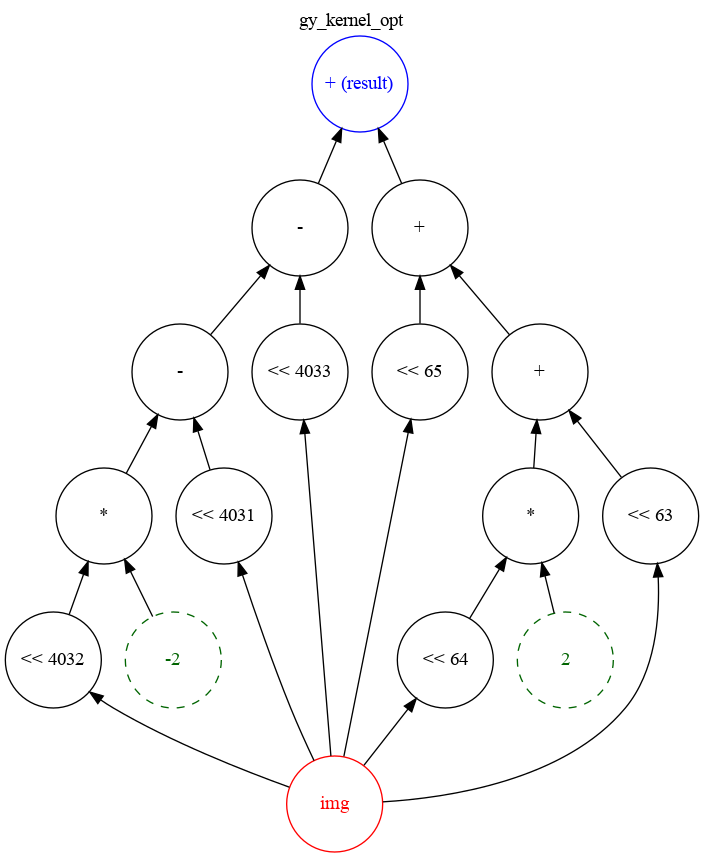
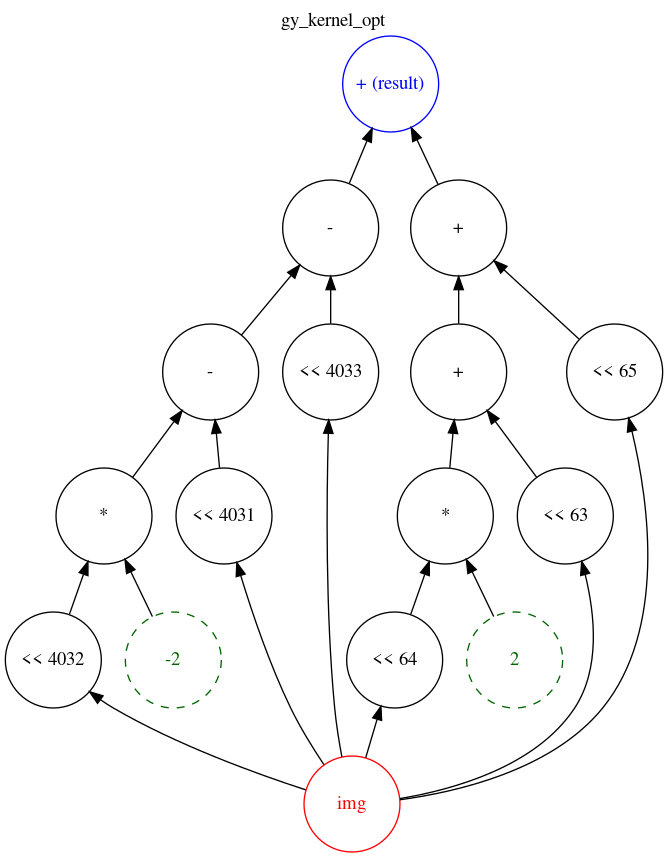
evaluate gy_kernel

diff --git a/benchmarks/gy_kernel/he/gen_he_gy_kernel_noopt.cpp b/benchmarks/gy_kernel/he/gen_he_gy_kernel_noopt.cpp
@@ -18,55 +18,55 @@ const GaloisKeys &galois_keys)
 {
 Ciphertext c1 = encrypted_inputs.at("img");
 size_t slot_count = encoder.slot_count();
-Plaintext p24;
-encoder.encode(vector<std::int64_t>(slot_count, 1), p24);
-Plaintext p27;
-encoder.encode(vector<std::int64_t>(slot_count, 2), p27);
-Plaintext p14;
-encoder.encode(vector<std::int64_t>(slot_count, 0), p14);
-Plaintext p10;
-encoder.encode(vector<std::int64_t>(slot_count, -1), p10);
+Plaintext p30;
+encoder.encode(vector<std::int64_t>(slot_count, 1), p30);
+Plaintext p25;
+encoder.encode(vector<std::int64_t>(slot_count, 1), p25);
 Plaintext p20;
 encoder.encode(vector<std::int64_t>(slot_count, 0), p20);
 Plaintext p7;
 encoder.encode(vector<std::int64_t>(slot_count, -2), p7);
-Plaintext p30;
-encoder.encode(vector<std::int64_t>(slot_count, 1), p30);
 Plaintext p17;
 encoder.encode(vector<std::int64_t>(slot_count, 0), p17);
-Plaintext p4;
-encoder.encode(vector<std::int64_t>(slot_count, -1), p4);
+Plaintext p27;
+encoder.encode(vector<std::int64_t>(slot_count, 2), p27);
+Plaintext p5;
+encoder.encode(vector<std::int64_t>(slot_count, -1), p5);
+Plaintext p10;
+encoder.encode(vector<std::int64_t>(slot_count, -1), p10);
+Plaintext p15;
+encoder.encode(vector<std::int64_t>(slot_count, 0), p15);
 Ciphertext c2;
 evaluator.rotate_rows(c1, 4032, galois_keys, c2);
-Ciphertext c5;
-evaluator.rotate_rows(c2, 4095, galois_keys, c5);
-evaluator.multiply_plain(c5, p4, c5);
+Ciphertext c9;
+evaluator.rotate_rows(c2, 4095, galois_keys, c9);
+evaluator.multiply_plain(c9, p10, c9);
 Ciphertext c37;
 evaluator.multiply_plain(c2, p7, c37);
-evaluator.add(c5, c37, c5);
+evaluator.add(c9, c37, c9);
 evaluator.rotate_rows(c2, 1, galois_keys, c2);
-evaluator.multiply_plain(c2, p10, c2);
-evaluator.add(c5, c2, c5);
+evaluator.multiply_plain(c2, p5, c2);
+evaluator.add(c9, c2, c9);
 evaluator.rotate_rows(c1, 4095, galois_keys, c2);
-evaluator.multiply_plain(c2, p14, c2);
+evaluator.multiply_plain(c2, p20, c2);
 evaluator.multiply_plain(c1, p17, c37);
 evaluator.add(c2, c37, c2);
 evaluator.rotate_rows(c1, 1, galois_keys, c37);
-evaluator.multiply_plain(c37, p20, c37);
+evaluator.multiply_plain(c37, p15, c37);
 evaluator.add(c2, c37, c2);
-evaluator.add(c5, c2, c5);
+evaluator.add(c9, c2, c9);
 evaluator.rotate_rows(c1, 64, galois_keys, c1);
 evaluator.rotate_rows(c1, 4095, galois_keys, c2);
-evaluator.multiply_plain(c2, p24, c2);
+evaluator.multiply_plain(c2, p30, c2);
 evaluator.multiply_plain(c1, p27, c37);
 evaluator.add(c2, c37, c2);
 evaluator.rotate_rows(c1, 1, galois_keys, c1);
-evaluator.multiply_plain(c1, p30, c1);
+evaluator.multiply_plain(c1, p25, c1);
 evaluator.add(c2, c1, c2);
-evaluator.add(c5, c2, c5);
-encrypted_outputs.emplace("result", move(c5));
+evaluator.add(c9, c2, c9);
+encrypted_outputs.emplace("result", move(c9));
 }
 
 vector<int> get_rotation_steps_gy_kernel_noopt(){
-return vector<int>{4032, 4095, 1, 64};
+return vector<int>{4095, 4032, 1, 64};
 }

diff --git a/benchmarks/gy_kernel/he/gen_he_gy_kernel_opt.cpp b/benchmarks/gy_kernel/he/gen_he_gy_kernel_opt.cpp
@@ -25,22 +25,22 @@ encoder.encode(vector<std::int64_t>(slot_count, -2), p51);
 Ciphertext c46;
 evaluator.rotate_rows(c45, 4032, galois_keys, c46);
 evaluator.multiply_plain(c46, p51, c46);
-Ciphertext c78;
-evaluator.rotate_rows(c45, 4031, galois_keys, c78);
-evaluator.sub(c46, c78, c46);
-evaluator.rotate_rows(c45, 4033, galois_keys, c78);
-evaluator.sub(c46, c78, c46);
-evaluator.rotate_rows(c45, 65, galois_keys, c78);
-Ciphertext c47;
-evaluator.rotate_rows(c45, 64, galois_keys, c47);
-evaluator.multiply_plain(c47, p68, c47);
-evaluator.rotate_rows(c45, 63, galois_keys, c45);
-evaluator.add(c47, c45, c47);
-evaluator.add(c78, c47, c78);
-evaluator.add(c46, c78, c46);
+Ciphertext c80;
+evaluator.rotate_rows(c45, 4031, galois_keys, c80);
+evaluator.sub(c46, c80, c46);
+evaluator.rotate_rows(c45, 4033, galois_keys, c80);
+evaluator.sub(c46, c80, c46);
+evaluator.rotate_rows(c45, 64, galois_keys, c80);
+evaluator.multiply_plain(c80, p68, c80);
+Ciphertext c77;
+evaluator.rotate_rows(c45, 63, galois_keys, c77);
+evaluator.add(c80, c77, c80);
+evaluator.rotate_rows(c45, 65, galois_keys, c45);
+evaluator.add(c80, c45, c80);
+evaluator.add(c46, c80, c46);
 encrypted_outputs.emplace("result", move(c46));
 }
 
 vector<int> get_rotation_steps_gy_kernel_opt(){
-return vector<int>{4032, 4031, 4033, 65, 64, 63};
+return vector<int>{64, 4033, 63, 4032, 4031, 65};
 }

diff --git a/benchmarks/gy_kernel/gy_kernel.cpp b/benchmarks/gy_kernel/gy_kernel.cpp
@@ -101,7 +101,10 @@ int main(int argc, char **argv)
 
   Compiler::compile(func, ruleset, rewrite_heuristic, header_os, gen_name + ".hpp", source_os);
   elapsed = chrono::high_resolution_clock::now() - t;
-  cout << elapsed.count() << " ms\n";
+  cout << elapsed.count() << '\n';
+
+  // cout << "get mem"<<endl;
+  // while(true);
 
   if (call_quantifier)
   {
